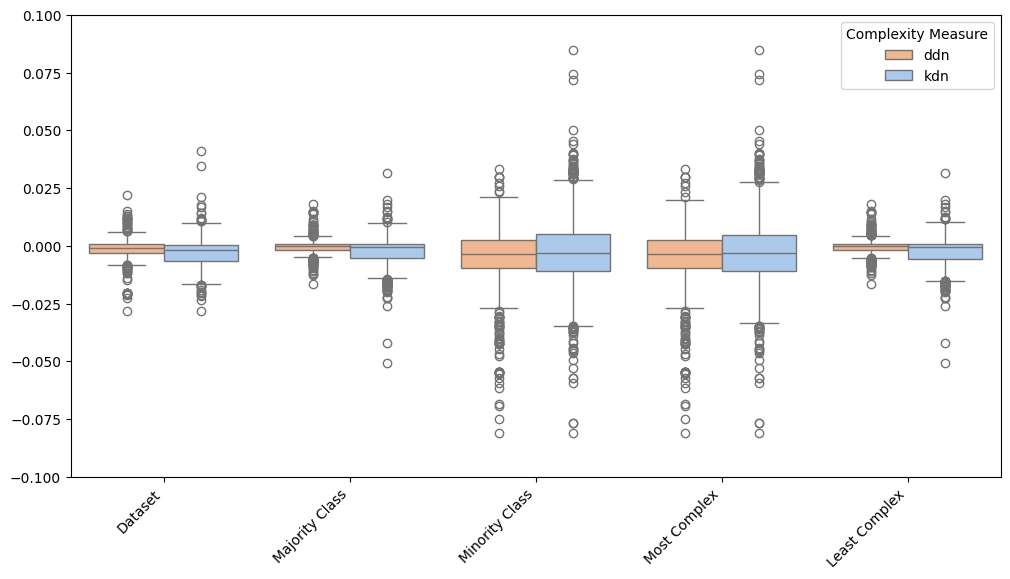
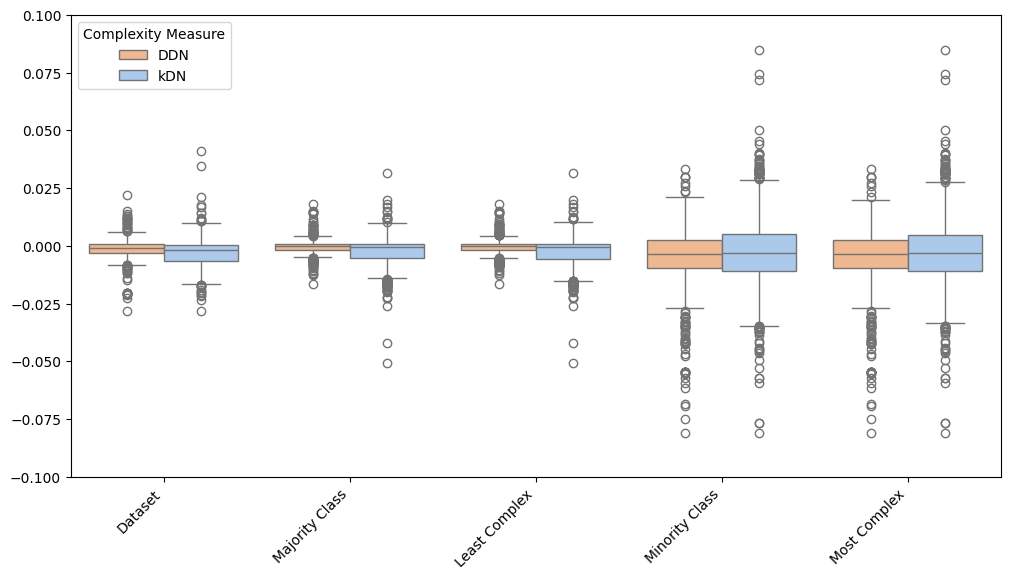
<REFACTOR> Add complexity differences plotting function for improved analysis

diff --git a/src/visualization/plots.py b/src/visualization/plots.py
@@ -1,4 +1,5 @@
 import numpy as np
+import pandas as pd
 import matplotlib.pyplot as plt
 import seaborn as sns
 
@@ -303,3 +304,61 @@ def plot_observed_vs_predicted(y_test, y_pred, group_label):
     plt.title(f"Observed vs Predicted ({group_label})")
     plt.tight_layout()
     plt.show()
+
+def plot_complexity_differences(df_differences):
+    # Filter columns representing complexity differences
+    complexity_diff_columns = [col for col in df_differences.columns if col.endswith("_difference")]
+
+    # Melt DataFrame to long format
+    df_melted = df_differences.melt(
+        id_vars=["metric"],
+        value_vars=complexity_diff_columns,
+        var_name="Complexity Measure",
+        value_name="Difference"
+    )
+
+    # Custom labels and order
+    custom_labels = {
+        "dataset_complexity_difference": "Dataset",
+                "majority_class_complexity_difference": "Majority Class",
+        "least_complex_class_difference": "Least Complex",
+        "minority_class_complexity_difference": "Minority Class",
+        "most_complex_class_difference": "Most Complex"
+    }
+
+    # Apply labels
+    df_melted["Complexity Measure"] = df_melted["Complexity Measure"].map(custom_labels)
+
+    # Replace metric labels
+    df_melted["metric"] = df_melted["metric"].replace({"ddn": "DDN", "kdn": "kDN"})
+
+    # Set categorical order
+    order = list(custom_labels.values())
+    df_melted["Complexity Measure"] = pd.Categorical(df_melted["Complexity Measure"], categories=order, ordered=True)
+
+    # Define color palette
+    pastel_colors = sns.color_palette("pastel")
+    custom_palette = {"kDN": pastel_colors[0], "DDN": pastel_colors[1]}
+
+    # Plot boxplot
+    plt.figure(figsize=(12, 6))
+    ax = sns.boxplot(
+        data=df_melted,
+        x="Complexity Measure",
+        y="Difference",
+        hue="metric",
+        palette=custom_palette,
+        order=order
+    )
+
+    # Customize plot
+    plt.xticks(rotation=45, ha="right")
+    plt.xlabel("")
+    plt.ylabel("")
+    plt.ylim(-0.1, 0.1)
+
+    # Set legend title
+    ax.legend(title="Complexity Measure")
+
+    plt.show()
+    
